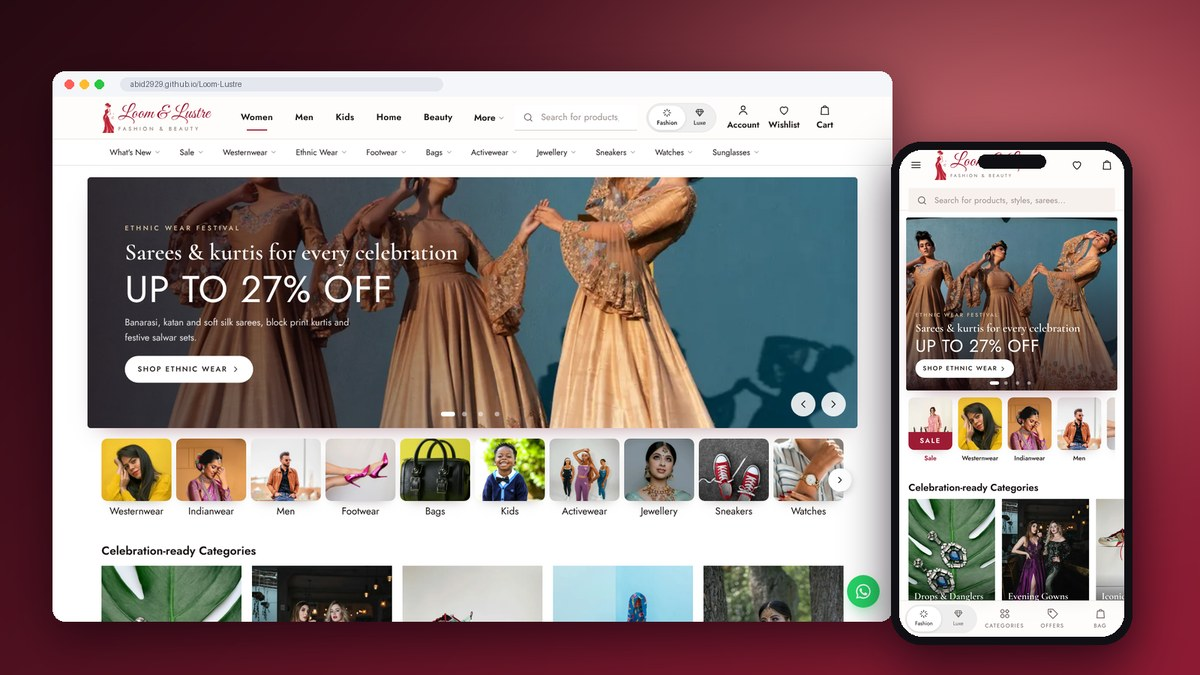
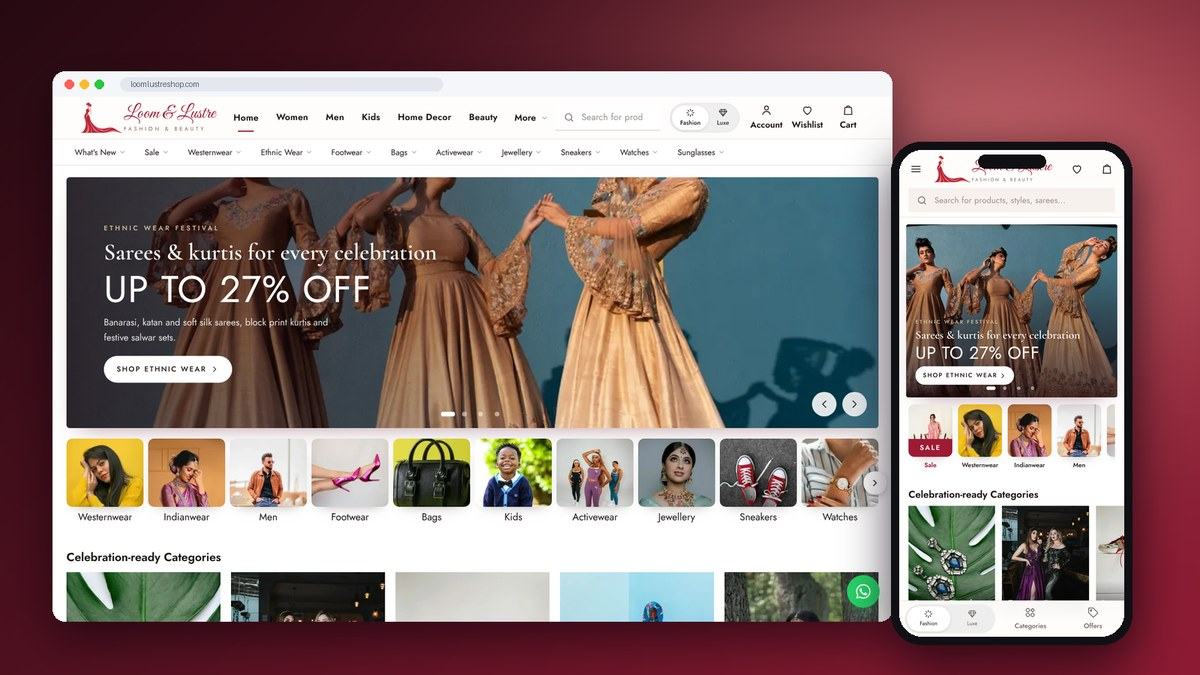
Live-first order with LIVE / GitHub Pages / Coming soon badges, new live domains, Boostnix Social

diff --git a/README.md b/README.md
@@ -8,13 +8,14 @@
 
 <p align="center">
   <a href="#live-websites"><b>🌐 Live websites</b></a> &nbsp;·&nbsp;
-  <a href="#live-demos"><b>🚀 Live demos</b></a> &nbsp;·&nbsp;
+  <a href="#live-demos"><b>🛍 Shop demos</b></a> &nbsp;·&nbsp;
+  <a href="#coming-soon"><b>🛠 Coming soon</b></a> &nbsp;·&nbsp;
   <a href="https://www.linkedin.com/in/abid-islam-a926ab2b5/"><b>💼 LinkedIn</b></a> &nbsp;·&nbsp;
   <a href="https://wa.me/8801775776473"><b>💬 WhatsApp</b></a>
 </p>
 
 <p align="center">
-  <img src="assets/ui/stats.svg" alt="10 websites built · 6 live on real domains · 6 online shops with admin · Bangla + English" width="100%">
+  <img src="assets/ui/stats.svg" alt="11 websites built · 7 live on real domains · 6 online shops with admin · Bangla + English" width="100%">
 </p>
 
 ---
@@ -31,72 +32,53 @@
 
 <a id="live-websites"></a>
 
-<p align="center"><img src="assets/ui/h-live.svg" alt="Live websites on real domains" width="100%"></p>
+<p align="center"><img src="assets/ui/h-live.svg" alt="Live websites" width="100%"></p>
 
 <table>
 <tr>
-<td width="50%" valign="top">
-<a href="https://abidora.boostnixmedia.com/"><img src="assets/sites/abidora.jpg" alt="Abidora immersive 3D universe" width="100%"></a>
-<h3>🌌 Abidora</h3>
-<p><sub>🔗 abidora.boostnixmedia.com</sub></p>
-<p>"A Universe Without Limits": an immersive platform of 3D worlds you can explore and play with, an AI assistant with voice, and 10 languages.</p>
-<p><kbd>Astro</kbd> <kbd>TypeScript</kbd> <kbd>Three.js</kbd> <kbd>PHP</kbd> <kbd>Gemini AI</kbd></p>
-<p><a href="https://abidora.boostnixmedia.com/"><img src="assets/ui/b-visit.svg" alt="Visit" height="34"></a> <a href="https://github.com/abid2929/ABID-ORA"><img src="assets/ui/b-code.svg" alt="Code" height="34"></a></p>
-</td>
-<td width="50%" valign="top">
-<a href="https://boostnixmedia.com/"><img src="assets/sites/boostnix.jpg" alt="Boostnix Media agency website" width="100%"></a>
-<h3>📈 Boostnix Media</h3>
-<p><sub>🔗 boostnixmedia.com</sub></p>
-<p>Digital marketing agency website: services, monthly plans, digital products store, video showcase, online orders and contact, with its own admin and tracking.</p>
-<p><kbd>HTML</kbd> <kbd>CSS</kbd> <kbd>JavaScript</kbd> <kbd>PHP</kbd> <kbd>GA4 + Pixel</kbd></p>
-<p><a href="https://boostnixmedia.com/"><img src="assets/ui/b-visit.svg" alt="Visit" height="34"></a> <a href="https://github.com/abid2929/BOOSTNIX-MEDIA"><img src="assets/ui/b-code.svg" alt="Code" height="34"></a></p>
-</td>
-</tr>
-<tr>
-<td width="50%" valign="top">
-<a href="https://bashundharakaziofficebd.com/"><img src="assets/sites/kazi.jpg" alt="Bashundhara Kazi Office website" width="100%"></a>
-<h3>🕌 Bashundhara Kazi Office</h3>
-<p><sub>🔗 bashundharakaziofficebd.com</sub></p>
-<p>Bilingual (Bangla + English) service website for a Kazi office in Dhaka: services, photo gallery, videos, contact and a private admin panel.</p>
-<p><kbd>HTML</kbd> <kbd>CSS</kbd> <kbd>JavaScript</kbd> <kbd>PHP</kbd></p>
-<p><a href="https://bashundharakaziofficebd.com/"><img src="assets/ui/b-visit.svg" alt="Visit" height="34"></a> <a href="https://github.com/abid2929/BASHUNDHARA-KAZI-OFFICE-"><img src="assets/ui/b-code.svg" alt="Code" height="34"></a></p>
-</td>
 <td width="50%" valign="top">
 <a href="https://jutarbazarbd.com/"><img src="assets/sites/jutar-bazar.jpg" alt="Jutar Bazar online shoe shop" width="100%"></a>
 <h3>👟 Jutar Bazar</h3>
-<p><sub>🔗 jutarbazarbd.com</sub></p>
-<p>Bangla-first online shoe shop with light premium banners and style cards: categories, cart, cash on delivery, order tracking and WhatsApp ordering. Bangla admin with sales chart and AI auto captions.</p>
+<p><img src="assets/ui/s-live.svg" alt="live" height="22">&nbsp; <sub>jutarbazarbd.com</sub></p>
+<p>Bangla-first online shoe shop: light premium banners, style cards, cart, cash on delivery, order tracking and WhatsApp ordering. Bangla admin with sales chart and AI auto captions.</p>
 <p><kbd>PHP 8</kbd> <kbd>SQLite</kbd> <kbd>JavaScript</kbd> <kbd>Admin panel</kbd></p>
-<p><a href="https://jutarbazarbd.com/"><img src="assets/ui/b-visit.svg" alt="Visit" height="34"></a> <a href="https://github.com/abid2929/JUTAR-BAZAR"><img src="assets/ui/b-code.svg" alt="Code" height="34"></a></p>
+<p><a href="https://jutarbazarbd.com/"><img src="assets/ui/b-visit.svg" alt="Open" height="34"></a> <a href="https://github.com/abid2929/JUTAR-BAZAR"><img src="assets/ui/b-code.svg" alt="Code" height="34"></a></p>
+</td>
+<td width="50%" valign="top">
+<a href="https://petversebd.com/"><img src="assets/sites/petverse.jpg" alt="PetVerse pet shop" width="100%"></a>
+<h3>🐾 PetVerse</h3>
+<p><img src="assets/ui/s-live.svg" alt="live" height="22">&nbsp; <sub>petversebd.com</sub></p>
+<p>Pet shop and care for Bashundhara and Baridhara: food by brand, toys, pharmacy, deals of the day and home service booking, with its own English + Bangla admin and one-click backup.</p>
+<p><kbd>HTML</kbd> <kbd>JavaScript</kbd> <kbd>PHP</kbd> <kbd>JSON</kbd></p>
+<p><a href="https://petversebd.com/"><img src="assets/ui/b-shop.svg" alt="Open" height="34"></a> <a href="https://github.com/abid2929/petverse"><img src="assets/ui/b-code.svg" alt="Code" height="34"></a></p>
+</td>
+</tr>
+<tr>
+<td width="50%" valign="top">
+<a href="https://loomlustreshop.com/"><img src="assets/sites/loom-lustre.jpg" alt="Loom and Lustre fashion and beauty store" width="100%"></a>
+<h3>💄 Loom &amp; Lustre</h3>
+<p><img src="assets/ui/s-live.svg" alt="live" height="22">&nbsp; <sub>loomlustreshop.com</sub></p>
+<p>Premium fashion and beauty store: sarees, kurtis, western wear, men, kids, home decor, bags, jewellery and makeup, with department menus, flash sale countdown, wishlist and admin backup.</p>
+<p><kbd>PHP 8</kbd> <kbd>SQLite</kbd> <kbd>JavaScript</kbd></p>
+<p><a href="https://loomlustreshop.com/"><img src="assets/ui/b-shop.svg" alt="Open" height="34"></a> <a href="https://github.com/abid2929/Loom-Lustre"><img src="assets/ui/b-code.svg" alt="Code" height="34"></a></p>
+</td>
+<td width="50%" valign="top">
+<a href="https://bashundharakaziofficebd.com/"><img src="assets/sites/kazi.jpg" alt="Bashundhara Kazi Office website" width="100%"></a>
+<h3>🕌 Bashundhara Kazi Office</h3>
+<p><img src="assets/ui/s-live.svg" alt="live" height="22">&nbsp; <sub>bashundharakaziofficebd.com</sub></p>
+<p>Bilingual (Bangla + English) service website for a Kazi office in Dhaka: services, photo gallery, videos, contact and a private admin panel.</p>
+<p><kbd>HTML</kbd> <kbd>CSS</kbd> <kbd>JavaScript</kbd> <kbd>PHP</kbd></p>
+<p><a href="https://bashundharakaziofficebd.com/"><img src="assets/ui/b-visit.svg" alt="Open" height="34"></a> <a href="https://github.com/abid2929/BASHUNDHARA-KAZI-OFFICE-"><img src="assets/ui/b-code.svg" alt="Code" height="34"></a></p>
 </td>
 </tr>
 <tr>
 <td colspan="2" valign="top">
-<a href="https://lifebdshop.com/"><img src="assets/sites/lifebdshop.jpg" alt="Life BD Shop online shoe shop" width="52%" align="left"></a>
-<h3>🧡 Life BD Shop <sup><kbd>NEW</kbd></sup></h3>
-<p><sub>🔗 lifebdshop.com</sub></p>
-<p>Orange and white sneaker shop, rebuilt from WordPress into a fast custom site: running, sneakers and fashion shoes, one-tap Order Now, cash on delivery and WhatsApp chat, with a Bangla admin panel for the owner.</p>
-<p><kbd>PHP 8</kbd> <kbd>SQLite</kbd> <kbd>JavaScript</kbd> <kbd>Admin panel</kbd></p>
-<p><a href="https://lifebdshop.com/"><img src="assets/ui/b-visit.svg" alt="Visit" height="34"></a></p>
-</td>
-</tr>
-</table>
-
----
-
-<a id="live-demos"></a>
-
-<p align="center"><img src="assets/ui/h-demos.svg" alt="Live demos on GitHub Pages" width="100%"></p>
-
-<table>
-<tr>
-<td colspan="2" valign="top">
-<a href="https://abid2929.github.io/DHAKA-BUS-FARE/"><img src="assets/sites/bus-fare.jpg" alt="Dhaka Bus Fare app on PC and phone" width="52%" align="left"></a>
-<h3>🚌 Dhaka Bus Fare <sup><kbd>NEW DESIGN</kbd></sup></h3>
-<p><sub>🔗 Live at <a href="https://boostnixmedia.com/bus/">boostnixmedia.com/bus</a></sub></p>
+<a href="https://boostnixmedia.com/bus/"><img src="assets/sites/bus-fare.jpg" alt="Dhaka Bus Fare app on PC and phone" width="52%" align="left"></a>
+<h3>🚌 Dhaka Bus Fare</h3>
+<p><img src="assets/ui/s-live.svg" alt="live" height="22">&nbsp; <sub>boostnixmedia.com/bus</sub></p>
 <p>A free, app-style tool for Dhaka commuters, now with 4 separate pages: Fare finder, All routes, All stops and Bus companies. Type any two stops (Bangla, Banglish or with typos) and instantly get the official BRTA fare, the student fare, the distance and every stop on the way. On PC the trip is drawn on a map; on phone it works like a ride app with a bottom tab bar. Also: 113 routes, 300+ stops, 82 bus companies, one-change trip suggestions, dark mode and a Bangla helper bot.</p>
 <p><kbd>HTML</kbd> <kbd>CSS</kbd> <kbd>JavaScript</kbd> <kbd>BRTA fare data</kbd> <kbd>Bangla bot</kbd></p>
-<p><a href="https://abid2929.github.io/DHAKA-BUS-FARE/"><img src="assets/ui/b-demo.svg" alt="Visit" height="34"></a> <a href="https://github.com/abid2929/DHAKA-BUS-FARE"><img src="assets/ui/b-code.svg" alt="Code" height="34"></a></p>
+<p><a href="https://boostnixmedia.com/bus/"><img src="assets/ui/b-visit.svg" alt="Open" height="34"></a> <a href="https://github.com/abid2929/DHAKA-BUS-FARE"><img src="assets/ui/b-code.svg" alt="Code" height="34"></a></p>
 <br clear="all">
 <p><b>📱 4 pages, tap one to open it:</b></p>
 <p align="center">
@@ -109,43 +91,75 @@
 </tr>
 <tr>
 <td width="50%" valign="top">
-<a href="https://abid2929.github.io/petverse/"><img src="assets/sites/petverse.jpg" alt="PetVerse pet shop" width="100%"></a>
-<h3>🐾 PetVerse</h3>
-<p><sub>🛍 Pet shop · Bangladesh</sub></p>
-<p>Pet shop for cats, dogs, birds and small pets: food by brand, toys, pharmacy, deals of the day and home service booking, with an app-style phone bar.</p>
-<p><kbd>HTML</kbd> <kbd>JavaScript</kbd> <kbd>PHP</kbd> <kbd>JSON</kbd></p>
-<p><a href="https://abid2929.github.io/petverse/"><img src="assets/ui/b-shop.svg" alt="Visit" height="34"></a> <a href="https://abid2929.github.io/petverse/admin/"><img src="assets/ui/b-admin.svg" alt="Admin demo" height="34"></a> <a href="https://github.com/abid2929/petverse"><img src="assets/ui/b-code.svg" alt="Code" height="34"></a></p>
+<a href="https://social.boostnixmedia.com/"><img src="assets/sites/social.jpg" alt="Boostnix Social publishing platform" width="100%"></a>
+<h3>📣 Boostnix Social</h3>
+<p><img src="assets/ui/s-live.svg" alt="live" height="22">&nbsp; <sub>social.boostnixmedia.com</sub></p>
+<p>Social media publishing platform: write once and post or schedule to Facebook, Instagram, YouTube, TikTok, X, Threads, LinkedIn, Pinterest, Telegram and WhatsApp, with a calendar, bulk scheduler, analytics and an AI assistant.</p>
+<p><kbd>PHP 8</kbd> <kbd>SQLite</kbd> <kbd>Cron</kbd> <kbd>Official APIs</kbd> <kbd>Gemini AI</kbd></p>
+<p><a href="https://social.boostnixmedia.com/"><img src="assets/ui/b-app.svg" alt="Open" height="34"></a></p>
 </td>
 <td width="50%" valign="top">
-<a href="https://abid2929.github.io/Christmas-Gallery/"><img src="assets/sites/christmas-gallery.jpg" alt="Christmas Gallery decoration shop" width="100%"></a>
-<h3>🎄 Christmas Gallery</h3>
-<p><sub>🛍 Christmas decoration shop</sub></p>
-<p>Red and gold Christmas decoration shop in Bangla with an English switch: trees, balls, lights, Santa showpieces, wreaths and gifts, with WhatsApp ordering.</p>
-<p><kbd>HTML</kbd> <kbd>JavaScript</kbd> <kbd>PHP</kbd> <kbd>JSON</kbd></p>
-<p><a href="https://abid2929.github.io/Christmas-Gallery/"><img src="assets/ui/b-shop.svg" alt="Visit" height="34"></a> <a href="https://abid2929.github.io/Christmas-Gallery/admin/"><img src="assets/ui/b-admin.svg" alt="Admin demo" height="34"></a> <a href="https://github.com/abid2929/Christmas-Gallery"><img src="assets/ui/b-code.svg" alt="Code" height="34"></a></p>
-</td>
-</tr>
-<tr>
-<td width="50%" valign="top">
-<a href="https://abid2929.github.io/Loom-Lustre/"><img src="assets/sites/loom-lustre.jpg" alt="Loom and Lustre fashion and beauty shop" width="100%"></a>
-<h3>💄 Loom &amp; Lustre</h3>
-<p><sub>🛍 Fashion &amp; beauty store</sub></p>
-<p>Premium fashion and beauty store: sarees, kurtis, western wear, men, kids, bags, jewellery and makeup, with department menus, flash sale countdown and wishlist.</p>
-<p><kbd>PHP 8</kbd> <kbd>SQLite</kbd> <kbd>JavaScript</kbd></p>
-<p><a href="https://abid2929.github.io/Loom-Lustre/"><img src="assets/ui/b-shop.svg" alt="Visit" height="34"></a> <a href="https://abid2929.github.io/Loom-Lustre/admin/"><img src="assets/ui/b-admin.svg" alt="Admin demo" height="34"></a> <a href="https://github.com/abid2929/Loom-Lustre"><img src="assets/ui/b-code.svg" alt="Code" height="34"></a></p>
-</td>
-<td width="50%" valign="top">
-<a href="https://abid2929.github.io/ELITE-SMART-HUB/"><img src="assets/sites/elite-smart-hub.jpg" alt="Elite Smart Hub premium subscription shop" width="100%"></a>
-<h3>👑 Elite Smart Hub</h3>
-<p><sub>🛍 Premium subscriptions</sub></p>
-<p>Red and white shop for 100+ digital subscriptions (ChatGPT, Gemini, Claude, Netflix, Spotify, Canva, VPN): instant search, 10 category shortcuts, a page for every product, bKash / Nagad / Rocket and a 5-tab phone bar.</p>
-<p><kbd>HTML</kbd> <kbd>JavaScript</kbd> <kbd>PHP</kbd> <kbd>JSON</kbd></p>
-<p><a href="https://abid2929.github.io/ELITE-SMART-HUB/"><img src="assets/ui/b-shop.svg" alt="Visit" height="34"></a> <a href="https://abid2929.github.io/ELITE-SMART-HUB/admin/"><img src="assets/ui/b-admin.svg" alt="Admin demo" height="34"></a> <a href="https://github.com/abid2929/ELITE-SMART-HUB"><img src="assets/ui/b-code.svg" alt="Code" height="34"></a></p>
+<a href="https://boostnixmedia.com/"><img src="assets/sites/boostnix.jpg" alt="Boostnix Media agency website" width="100%"></a>
+<h3>📈 Boostnix Media</h3>
+<p><img src="assets/ui/s-live.svg" alt="live" height="22">&nbsp; <sub>boostnixmedia.com</sub></p>
+<p>Digital marketing agency website: services, monthly plans, digital products store, video showcase, online orders and contact, with its own admin and tracking.</p>
+<p><kbd>HTML</kbd> <kbd>CSS</kbd> <kbd>JavaScript</kbd> <kbd>PHP</kbd> <kbd>GA4 + Pixel</kbd></p>
+<p><a href="https://boostnixmedia.com/"><img src="assets/ui/b-visit.svg" alt="Open" height="34"></a> <a href="https://github.com/abid2929/BOOSTNIX-MEDIA"><img src="assets/ui/b-code.svg" alt="Code" height="34"></a></p>
 </td>
 </tr>
 </table>
 
-<sub>All my shops share one admin panel I designed: Bangla by default with an English button, for products, orders, banners, reviews, delivery charges and staff roles.</sub>
+<a id="live-demos"></a>
+
+<p align="center"><img src="assets/ui/h-pages.svg" alt="Online shop demos on GitHub Pages" width="100%"></p>
+
+<table>
+<tr>
+<td width="50%" valign="top">
+<a href="https://abid2929.github.io/Christmas-Gallery/"><img src="assets/sites/christmas-gallery.jpg" alt="Christmas Gallery decoration shop" width="100%"></a>
+<h3>🎄 Christmas Gallery</h3>
+<p><img src="assets/ui/s-pages.svg" alt="pages" height="22">&nbsp; <sub>abid2929.github.io/Christmas-Gallery</sub></p>
+<p>Red and gold Christmas decoration shop in Bangla with an English switch: trees, balls, lights, Santa showpieces, wreaths and gifts, with WhatsApp ordering.</p>
+<p><kbd>HTML</kbd> <kbd>JavaScript</kbd> <kbd>PHP</kbd> <kbd>JSON</kbd></p>
+<p><a href="https://abid2929.github.io/Christmas-Gallery/"><img src="assets/ui/b-shop.svg" alt="Open" height="34"></a> <a href="https://abid2929.github.io/Christmas-Gallery/admin/"><img src="assets/ui/b-admin.svg" alt="Admin demo" height="34"></a> <a href="https://github.com/abid2929/Christmas-Gallery"><img src="assets/ui/b-code.svg" alt="Code" height="34"></a></p>
+</td>
+<td width="50%" valign="top">
+<a href="https://abid2929.github.io/ELITE-SMART-HUB/"><img src="assets/sites/elite-smart-hub.jpg" alt="Elite Smart Hub premium subscription shop" width="100%"></a>
+<h3>👑 Elite Smart Hub</h3>
+<p><img src="assets/ui/s-pages.svg" alt="pages" height="22">&nbsp; <sub>abid2929.github.io/ELITE-SMART-HUB</sub></p>
+<p>Red and white shop for 100+ digital subscriptions (ChatGPT, Gemini, Claude, Netflix, Spotify, Canva, VPN): instant search, 10 category shortcuts, a page for every product, bKash / Nagad / Rocket and a 5-tab phone bar.</p>
+<p><kbd>HTML</kbd> <kbd>JavaScript</kbd> <kbd>PHP</kbd> <kbd>JSON</kbd></p>
+<p><a href="https://abid2929.github.io/ELITE-SMART-HUB/"><img src="assets/ui/b-shop.svg" alt="Open" height="34"></a> <a href="https://abid2929.github.io/ELITE-SMART-HUB/admin/"><img src="assets/ui/b-admin.svg" alt="Admin demo" height="34"></a> <a href="https://github.com/abid2929/ELITE-SMART-HUB"><img src="assets/ui/b-code.svg" alt="Code" height="34"></a></p>
+</td>
+</tr>
+</table>
+
+<a id="coming-soon"></a>
+
+<p align="center"><img src="assets/ui/h-soon.svg" alt="Coming soon" width="100%"></p>
+
+<table>
+<tr>
+<td width="50%" valign="top">
+<a href="https://abidora.boostnixmedia.com/"><img src="assets/sites/abidora.jpg" alt="Abidora immersive 3D universe" width="100%"></a>
+<h3>🌌 Abidora</h3>
+<p><img src="assets/ui/s-preview.svg" alt="preview" height="22">&nbsp; <sub>abidora.boostnixmedia.com</sub></p>
+<p>"A Universe Without Limits": my own platform of immersive 3D worlds, an AI assistant with voice and 10 languages. Being polished world by world.</p>
+<p><kbd>Astro</kbd> <kbd>TypeScript</kbd> <kbd>Three.js</kbd> <kbd>PHP</kbd> <kbd>Gemini AI</kbd></p>
+<p><a href="https://abidora.boostnixmedia.com/"><img src="assets/ui/b-preview.svg" alt="Open" height="34"></a> <a href="https://github.com/abid2929/ABID-ORA"><img src="assets/ui/b-code.svg" alt="Code" height="34"></a></p>
+</td>
+<td width="50%" valign="top">
+<a href="https://lifebdshop.com/"><img src="assets/sites/lifebdshop.jpg" alt="Life BD Shop online shoe shop" width="100%"></a>
+<h3>🧡 Life BD Shop</h3>
+<p><img src="assets/ui/s-soon.svg" alt="soon" height="22">&nbsp; <sub>lifebdshop.com</sub></p>
+<p>Orange and white sneaker shop, rebuilt from WordPress into a fast custom site: running, sneakers and fashion shoes, one-tap Order Now, cash on delivery and a Bangla admin panel.</p>
+<p><kbd>PHP 8</kbd> <kbd>SQLite</kbd> <kbd>JavaScript</kbd> <kbd>Admin panel</kbd></p>
+<p><a href="https://lifebdshop.com/"><img src="assets/ui/b-visit.svg" alt="Open" height="34"></a></p>
+</td>
+</tr>
+</table>
+
+<sub>Every shop comes with an easy admin panel I designed, in Bangla and English: products, orders, banners, reviews, delivery charges, staff roles and backups, all from a phone.</sub>
 
 <p align="center">
   <a href="https://wa.me/8801775776473"><img src="assets/ui/cta.svg" alt="Need a website or online shop? Message me on WhatsApp" width="100%"></a>
